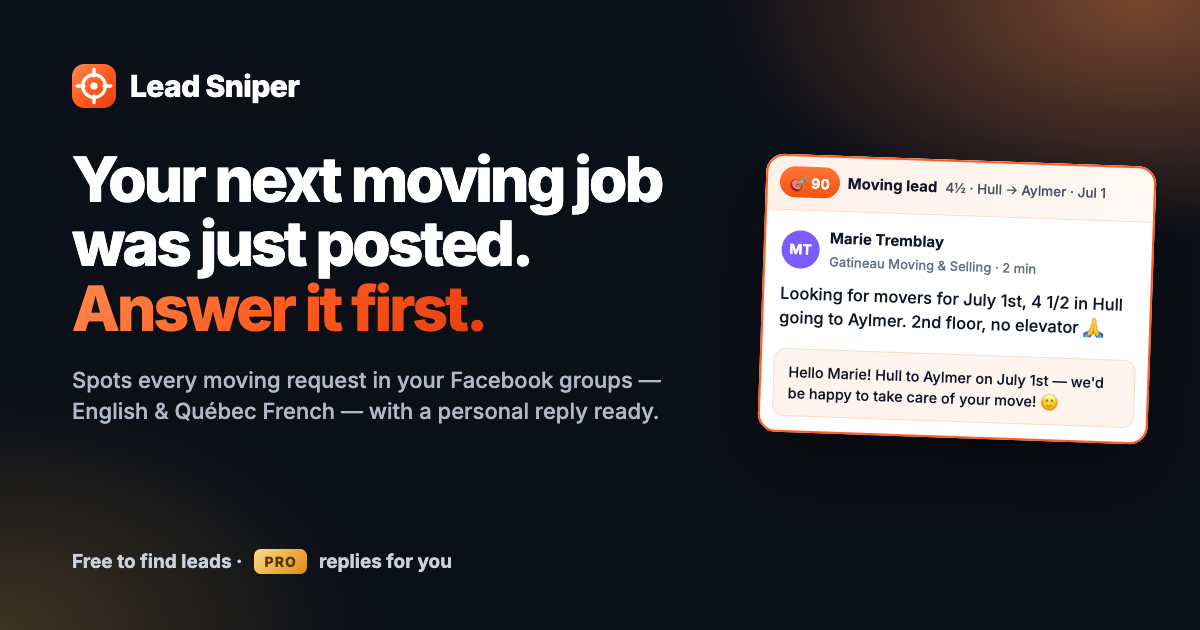
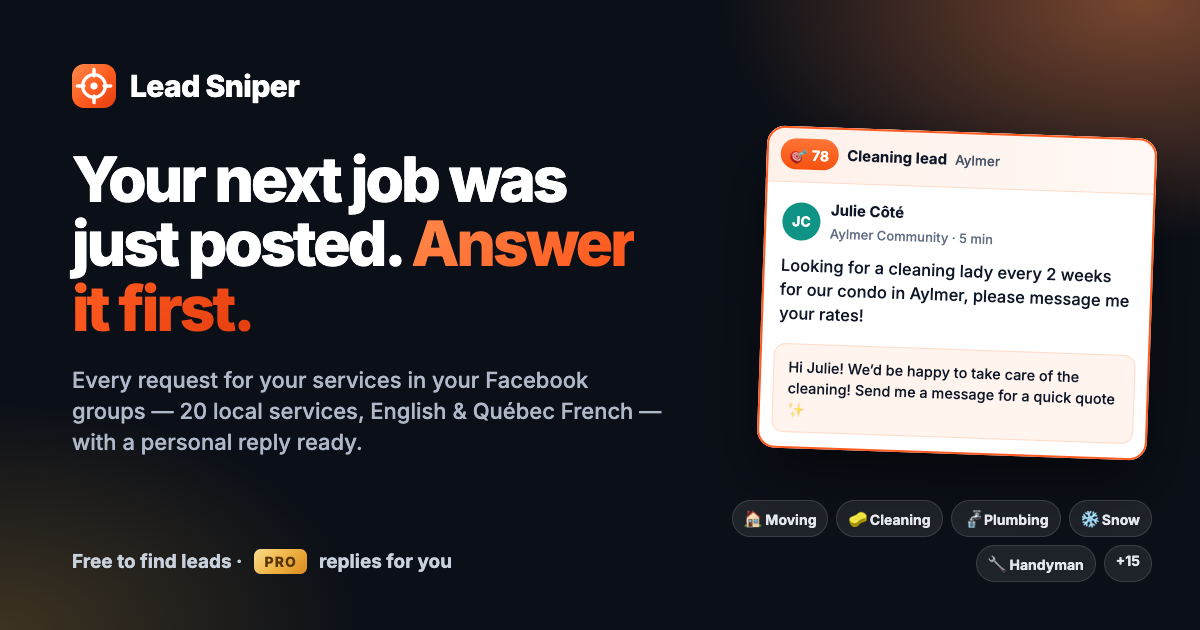
Lead Sniper 3.0: 20 services

diff --git a/index.html b/index.html
@@ -3,11 +3,11 @@
 <head>
 <meta charset="utf-8">
 <meta name="viewport" content="width=device-width, initial-scale=1">
-<title>Lead Sniper — Be the first mover to answer</title>
-<meta name="description" content="Lead Sniper spots every moving request in your Facebook groups — English & Québec French — and writes the reply for you. With Pro, it posts it while you're on a job.">
+<title>Lead Sniper — Be the first to answer</title>
+<meta name="description" content="Lead Sniper spots every request for your services in your Facebook groups — moving, cleaning, plumbing, snow removal and 16 more, in English &amp; Québec French — and writes the reply. With Pro, it posts it while you’re on a job.">
 <meta property="og:type" content="website">
-<meta property="og:title" content="Lead Sniper — Be the first mover to answer">
-<meta property="og:description" content="Every moving request in your Facebook groups, spotted in seconds and answered with a reply that sounds like you. English & Québec French. Runs in your browser.">
+<meta property="og:title" content="Lead Sniper — Be the first to answer">
+<meta property="og:description" content="Every request for your services in your Facebook groups — 20 local services, English &amp; Québec French — spotted in seconds and answered with a reply that sounds like you.">
 <meta property="og:url" content="https://hurbiexss.github.io/leadsniper/">
 <meta property="og:image" content="https://hurbiexss.github.io/leadsniper/assets/og.png">
 <meta property="og:image:width" content="1200">
@@ -120,6 +120,12 @@ section.alt { background: var(--bg-2); }
 .howbuy a { color: var(--accent-ink); font-weight: 650; }
 
 /* quick answers */
+.svcs { display: grid; grid-template-columns: repeat(4, 1fr); gap: 16px; }
+.svcs div { padding: 18px; border-radius: 16px; background: #fff; border: 1px solid var(--line); box-shadow: var(--shadow); }
+.svcs h3 { font-size: 15px; margin-bottom: 8px; }
+.svcs p { display: flex; flex-wrap: wrap; gap: 6px; }
+.svcs p span { white-space: nowrap; padding: 4px 10px; border-radius: 99px; background: var(--bg-3); font-size: 13px; color: var(--ink-2); }
+.svcs-note { text-align: center; margin-top: 18px; color: var(--ink-3); font-size: 14.5px; }
 .qa { display: grid; grid-template-columns: repeat(4, 1fr); gap: 16px; }
 .qa div { font-size: 14px; color: var(--ink-2); }
 .qa b { display: block; color: var(--ink); font-size: 15px; margin-bottom: 4px; }
@@ -136,7 +142,7 @@ section.alt { background: var(--bg-2); }
   nav.top .links { display: none; } nav.top .btn { margin-left: auto; }
   .hero .wrap, .flow, .prices { grid-template-columns: 1fr; }
   .stats { grid-template-columns: repeat(3, auto); }
-  .extras, .qa { grid-template-columns: 1fr 1fr; }
+  .extras, .qa, .svcs { grid-template-columns: 1fr 1fr; }
   .stage { padding: 0; }
   .stage .post, .stage .toast { position: static; width: auto; margin-top: 12px; animation: none; }
 }
@@ -144,7 +150,7 @@ section.alt { background: var(--bg-2); }
   .wrap { padding: 0 16px; }
   .hero { padding-top: 36px; }
   .stats { grid-template-columns: 1fr 1fr; }
-  .extras, .qa { grid-template-columns: 1fr; }
+  .extras, .qa, .svcs { grid-template-columns: 1fr; }
 }
 @media (prefers-reduced-motion: reduce) { * { animation: none !important; transition: none !important; } }
 </style>
@@ -153,27 +159,27 @@ section.alt { background: var(--bg-2); }
 
 <nav class="top"><div class="wrap">
   <a class="brand" href="#"><img src="assets/logo.svg" width="30" height="30" alt="">Lead Sniper</a>
-  <div class="links"><a href="#how">How it works</a><a href="#pricing">Pricing</a></div>
+  <div class="links"><a href="#services">Services</a><a href="#how">How it works</a><a href="#pricing">Pricing</a></div>
   <a class="btn primary" href="https://github.com/hurbiexss/leadsniper/releases/latest/download/lead-sniper.zip">Download free</a>
 </div></nav>
 
 <header class="hero"><div class="wrap">
   <div>
-    <h1>Your next moving job was just posted. <span class="grad-text" style="white-space:nowrap">Answer it first.</span></h1>
-    <p class="lede">Lead Sniper spots every moving request in your Facebook groups — English &amp; Québec French — and writes the reply. <b>Pro</b> posts it while you're on a job.</p>
+    <h1>Your next job was just posted. <span class="grad-text" style="white-space:nowrap">Answer it first.</span></h1>
+    <p class="lede">Lead Sniper spots every request for your services in your Facebook groups — moving, cleaning, plumbing, snow removal and 16 more, in English &amp; Québec French — and writes the reply. <b>Pro</b> posts it while you're on a job.</p>
     <div class="ctas"><a class="btn primary" href="https://github.com/hurbiexss/leadsniper/releases/latest/download/lead-sniper.zip">Download free</a><a class="btn" href="#pricing">See pricing</a></div>
     <p class="small">Brave &amp; Chrome · No account · Free forever to find leads</p>
     <div class="stats">
       <div><b>EN + FR</b><span>joual &amp; typos</span></div>
-      <div><b>6,000+</b><span>posts / second</span></div>
-      <div><b>500/500</b><span>unique replies</span></div>
-      <div><b>1,600+</b><span>test posts passed</span></div>
+      <div><b>5,000+</b><span>posts / second</span></div>
+      <div><b>20</b><span>local services</span></div>
+      <div><b>2,000+</b><span>test posts passed</span></div>
       <div><b>0</b><span>servers or cloud</span></div>
     </div>
   </div>
   <div class="stage">
     <div class="frame"><div class="bar"><i></i><i></i><i></i></div><img src="assets/inbox.png" width="1440" height="940" alt="The Lead Sniper inbox: leads with score, job details and a ready reply"></div>
-    <div class="toast"><span class="badge ok">✓ 97</span><div>Auto-replied to Étienne<small>couch · Orléans · tomorrow</small></div></div>
+    <div class="toast"><span class="badge ok">✓ 83</span><div>Auto-replied to Patrick<small>🚰 Plumbing · leak under the sink · Hull</small></div></div>
     <div class="post">
       <div class="lsbar"><span class="badge">🎯 90</span><b>Moving lead</b><span class="s">4½ · no elevator · Hull → Aylmer · Jul 1</span></div>
       <div class="body"><b>Marie Tremblay</b>Looking for movers for July 1st, 4 1/2 in Hull going to Aylmer. 2nd floor, no elevator 🙏</div>
@@ -181,15 +187,26 @@ section.alt { background: var(--bg-2); }
   </div>
 </div></header>
 
+<section id="services"><div class="wrap">
+  <h2>20 services. Turn on yours.</h2>
+  <div class="svcs">
+    <div><h3>Moving &amp; hauling</h3><p><span>🏠 Moving</span><span>📦 Pickup &amp; delivery</span><span>🏋 Heavy items</span><span>🗑 Junk removal</span></p></div>
+    <div><h3>Home</h3><p><span>🧽 Cleaning</span><span>🔧 Handyman</span><span>🪛 Assembly &amp; TV mounting</span><span>🎨 Painting</span><span>🚰 Plumbing</span><span>💡 Electrical</span><span>♨ Heating &amp; AC</span><span>🧺 Appliance repair</span><span>🔨 Renovation</span></p></div>
+    <div><h3>Outdoor</h3><p><span>🌱 Lawn &amp; landscaping</span><span>❄ Snow removal</span><span>🌳 Tree service</span><span>🪟 Windows, gutters &amp; pressure washing</span></p></div>
+    <div><h3>Auto, pests &amp; pets</h3><p><span>🚗 Auto repair &amp; tires</span><span>🐜 Pest control</span><span>🐕 Pet care</span></p></div>
+  </div>
+  <p class="svcs-note">Each one ignores its own trade’s ads, job posts and things for sale. Fewer services on, fewer posts to judge.</p>
+</div></section>
+
 <section class="alt" id="how"><div class="wrap">
   <h2>Spot it. Write it. Send it.</h2>
   <div class="flow">
     <div class="step">
       <div class="n"><i>1</i>Spots only customers</div>
-      <div class="fl"><span>Need 2 guys Saturday to load a 16ft truck in Kanata</span><span class="tag lead">Lead 90</span></div>
-      <div class="fl"><span>qqn aurait un truck pour un frigo ce soir?? je paye</span><span class="tag lead">Lead 94</span></div>
-      <div class="fl"><span>🚚 DÉMÉNAGEMENT PAS CHER 2 hommes + camion</span><span class="tag">Competitor</span></div>
-      <div class="fl"><span>Hiring movers! $22/h, send your CV</span><span class="tag">Job post</span></div>
+      <div class="fl"><span>Need 2 guys Saturday to load a 16ft truck in Kanata</span><span class="tag lead">🏠 Moving 86</span></div>
+      <div class="fl"><span>Fuite sous l’évier, qqn connaît un bon plombier à Hull?</span><span class="tag lead">🚰 Plumbing 83</span></div>
+      <div class="fl"><span>Need a cleaner? Book now, free quotes!</span><span class="tag">Competitor ad</span></div>
+      <div class="fl"><span>Hiring painters for our company, $22/h</span><span class="tag">Job post</span></div>
       <p class="note">Shows the job at a glance: size, floor, route, date, items.</p>
     </div>
     <div class="step">
@@ -206,18 +223,18 @@ section.alt { background: var(--bg-2); }
     </div>
   </div>
   <div class="extras">
-    <span>🧭 <b>Group Hunter</b> ranks local groups by moving requests per week</span>
+    <span>🧭 <b>Group Hunter</b> ranks local groups by requests for your services</span>
     <span>⏱ <b>Auto-scans</b> every 15 min, with desktop alerts</span>
     <span>📥 <b>Inbox</b> with shortcuts, Won/Lost and CSV export</span>
   </div>
 </div></section>
 
 <section id="pricing"><div class="wrap">
-  <h2>One booked move pays for a year.</h2>
+  <h2>One booked job pays for a year.</h2>
   <div class="prices">
     <div class="price"><div class="nm">Free</div><div class="p">$0 <small>forever</small></div><p>Leads in your feed, auto-scans, 1-click replies, Group Hunter, Rehearsal.</p><a class="btn" href="https://github.com/hurbiexss/leadsniper/releases/latest/download/lead-sniper.zip">Download free</a></div>
     <div class="price"><div class="nm">Pro Monthly <span class="pro">PRO</span></div><div class="p">$20 <small>CAD / month</small></div><p>Everything free + Autopilot replies. Unused days carry over.</p><a class="btn primary" href="mailto:justinhurbie@gmail.com?subject=Lead%20Sniper%20Pro%20%E2%80%94%20Monthly%20%28%2420%20CAD%29&amp;body=Hi%21%20I%27d%20like%20Lead%20Sniper%20Pro%2C%20monthly.%0A%0AMy%20browser%20code%20%28Lead%20Sniper%20%E2%86%92%20Settings%20%E2%86%92%20Lead%20Sniper%20Pro%29%3A%20%0A%0AI%27ll%20pay%20with%3A%20Bitcoin%20/%20Monero">Get Pro monthly</a></div>
-    <div class="price best"><span class="ribbon">SAVE $90</span><div class="nm">Pro Yearly <span class="pro">PRO</span></div><div class="p">$150 <small>CAD / year</small></div><p>$12.50 a month. Covers the July 1st rush.</p><a class="btn gold" href="mailto:justinhurbie@gmail.com?subject=Lead%20Sniper%20Pro%20%E2%80%94%20Yearly%20%28%24150%20CAD%29&amp;body=Hi%21%20I%27d%20like%20Lead%20Sniper%20Pro%2C%20yearly.%0A%0AMy%20browser%20code%20%28Lead%20Sniper%20%E2%86%92%20Settings%20%E2%86%92%20Lead%20Sniper%20Pro%29%3A%20%0A%0AI%27ll%20pay%20with%3A%20Bitcoin%20/%20Monero">Get Pro yearly</a></div>
+    <div class="price best"><span class="ribbon">SAVE $90</span><div class="nm">Pro Yearly <span class="pro">PRO</span></div><div class="p">$150 <small>CAD / year</small></div><p>$12.50 a month. Covers your busy season.</p><a class="btn gold" href="mailto:justinhurbie@gmail.com?subject=Lead%20Sniper%20Pro%20%E2%80%94%20Yearly%20%28%24150%20CAD%29&amp;body=Hi%21%20I%27d%20like%20Lead%20Sniper%20Pro%2C%20yearly.%0A%0AMy%20browser%20code%20%28Lead%20Sniper%20%E2%86%92%20Settings%20%E2%86%92%20Lead%20Sniper%20Pro%29%3A%20%0A%0AI%27ll%20pay%20with%3A%20Bitcoin%20/%20Monero">Get Pro yearly</a></div>
   </div>
   <p class="howbuy">E-mail your browser code (Settings → Lead Sniper Pro) → pay in ₿ Bitcoin or ɱ Monero → paste your key. <a href="mailto:justinhurbie@gmail.com?subject=Lead%20Sniper%20%E2%80%94%20free%207-day%20Pro%20trial&amp;body=Hi%21%20I%27d%20like%20to%20try%20Lead%20Sniper%20Pro%20for%207%20days.%0A%0AMy%20browser%20code%20%28Lead%20Sniper%20%E2%86%92%20Settings%20%E2%86%92%20Lead%20Sniper%20Pro%29%3A%20">Or ask for a free 7-day trial →</a></p>
 </div></section>
@@ -226,13 +243,13 @@ section.alt { background: var(--bg-2); }
   <div><b>Safe for my account?</b>Reads like you do, never asks for your password. Pro has limits, quiet hours and Rehearsal.</div>
   <div><b>Where's my data?</b>Only in your browser. No account, no cloud.</div>
   <div><b>When Pro ends?</b>Autopilot pauses with a Renew button. Everything else keeps working.</div>
-  <div><b>Which browsers?</b>Brave or Chrome on Mac, Windows or Linux.</div>
+  <div><b>Which jobs?</b>20 services, from moving and cleaning to plumbing and snow removal. Turn on only yours.</div>
 </div></section>
 
 <section class="final"><div class="wrap">
   <h2>Stop scrolling. Start booking.</h2>
   <div class="ctas"><a class="btn primary" href="https://github.com/hurbiexss/leadsniper/releases/latest/download/lead-sniper.zip">Download free</a><a class="btn gold" href="#pricing">Get Pro</a></div>
-  <p class="install">Unzip → <code>brave://extensions</code> → Developer mode → Load unpacked. 2 minutes.</p>
+  <p class="install">Brave or Chrome: unzip → <code>brave://extensions</code> → Developer mode → Load unpacked. 2 minutes.</p>
   <div class="foot"><span>© 2026 Lead Sniper · Made in Gatineau, Québec</span><span><a href="mailto:justinhurbie@gmail.com">justinhurbie@gmail.com</a> · Not affiliated with Meta or Facebook.</span></div>
 </div></section>
 

diff --git a/README.md b/README.md
@@ -1,6 +1,6 @@
 <p align="center"><img src="assets/og.png" alt="Lead Sniper — Your next moving job was just posted. Answer it first." width="100%"></p>
 
-<p align="center"><b>Spots every moving request in your Facebook groups, in English &amp; Québec French, and writes the reply for you.</b><br>
+<p align="center"><b>Spots every request for your services in your Facebook groups (moving, cleaning, plumbing, snow removal and 16 more), in English &amp; Québec French, and writes the reply for you.</b><br>
 <a href="https://github.com/hurbiexss/leadsniper/releases/latest/download/lead-sniper.zip"><b>⬇ Download free</b></a> · <a href="https://hurbiexss.github.io/leadsniper/">🌐 Website</a> · <a href="https://hurbiexss.github.io/leadsniper/#pricing">⭐ Get Pro</a></p>
 
 ---
@@ -12,12 +12,13 @@
 | 🎯 **Spots it** | Only real customers. Competitors' ads, job posts and sale posts are skipped. |
 | ✍ **Writes it** | A reply built from their own words, in their language. Never the same twice. |
 | 🤖 **Sends it** `PRO` | Posted while you're on a job, with limits, quiet hours and a free Rehearsal mode. |
-| 🧭 **Group Hunter** | Finds local groups and ranks them by moving requests per week. |
+| 🧰 **20 services** | Moving, cleaning, handyman, painting, plumbing, electrical, heating & AC, appliances, renovation, lawn, snow, trees, windows & gutters, auto, pests, pets and more. Turn on only yours. |
+| 🧭 **Group Hunter** | Finds local groups and ranks them by requests for your services. |
 | 🔒 **Private** | No account, no cloud. Everything stays in your browser. |
 
 <p align="center"><img src="assets/inbox.png" alt="The Lead Sniper inbox" width="92%"></p>
 
-**EN + FR** (joual &amp; typos too) · **6,000+** posts read per second · **500/500** unique replies · **1,600+** test posts passed · **0** servers
+**EN + FR** (joual &amp; typos too) · **5,000+** posts read per second · **500/500** unique replies · **2,000+** test posts passed · **0** servers
 
 ### Install in 2 minutes
 Unzip the [download](https://github.com/hurbiexss/leadsniper/releases/latest/download/lead-sniper.zip), open `brave://extensions` (or `chrome://extensions`), turn on **Developer mode**, click **Load unpacked** and pick the folder.

diff --git a/RELEASE.md b/RELEASE.md
@@ -1,4 +1,4 @@
-**Lead Sniper finds every moving request in your Facebook groups, in English and Québec French, and has a personal reply ready in one click.** With Pro, it replies for you.
+**Lead Sniper 3 finds every request for your services in your Facebook groups — 20 local services, from moving and cleaning to plumbing and snow removal — in English and Québec French, and has a personal reply ready in one click.** With Pro, it replies for you.
 
 ### Install (2 minutes)
 1. Download **lead-sniper.zip** below and double-click it to unzip. Keep the folder somewhere permanent, like Documents.
@@ -6,10 +6,11 @@
 3. On the welcome screen, enter your business name and your group links, then scroll Facebook.
 
 ### What's inside
-- 🎯 Lead engine that reads the whole job: size, floor, elevator, route, date, items, budget
+- 🧰 **New in 3.0: 20 services.** Pick yours on the Services page; each trade ignores its own ads, job posts and things for sale
+- 🎯 Lead engine that reads the whole job: size, floor, route, date, items, budget
 - 🧹 Skips competitors' ads, job offers, sale posts and testimonials
 - ✍ Smart replies written from each customer's own words, in their language
-- 🧭 Group Hunter: finds and ranks local groups by moving requests per week
+- 🧭 Group Hunter: finds and ranks local groups by requests for your services
 - ⏱ Scheduled scans and desktop notifications
 - 🤖 **Pro Autopilot**: replies post themselves, with limits, quiet hours and a free Rehearsal mode
 
